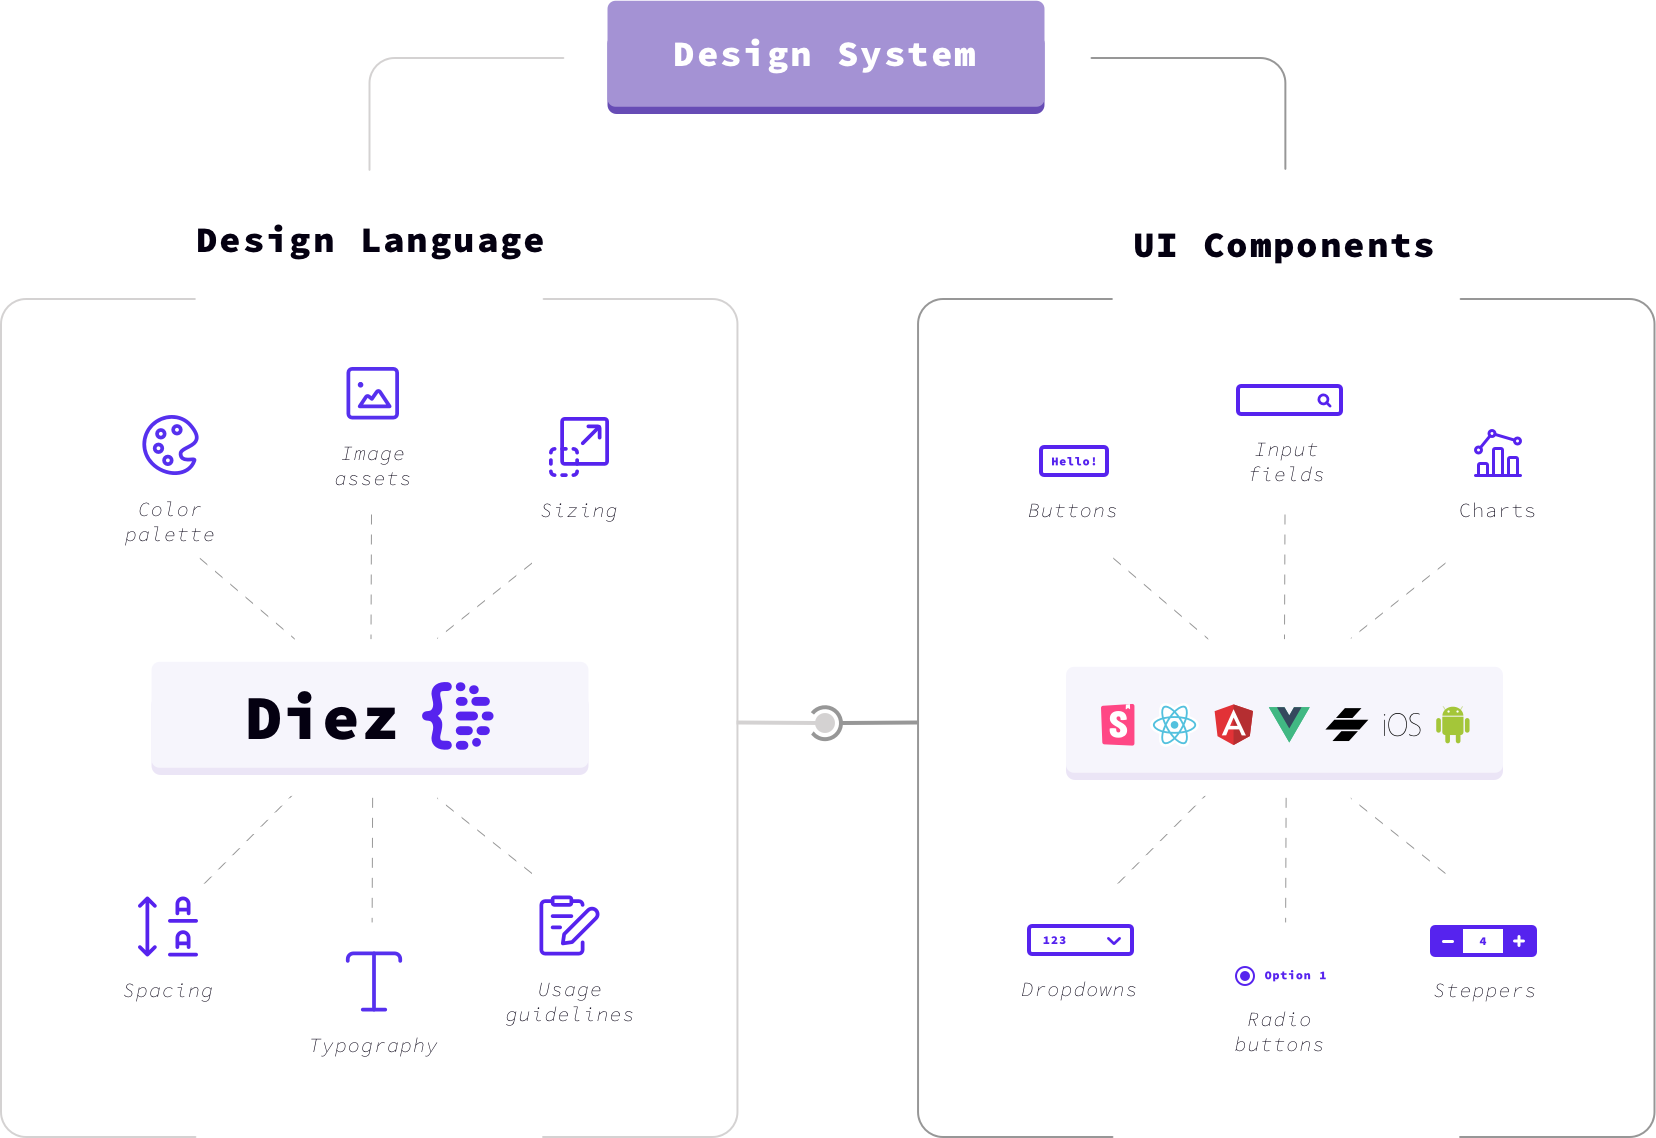
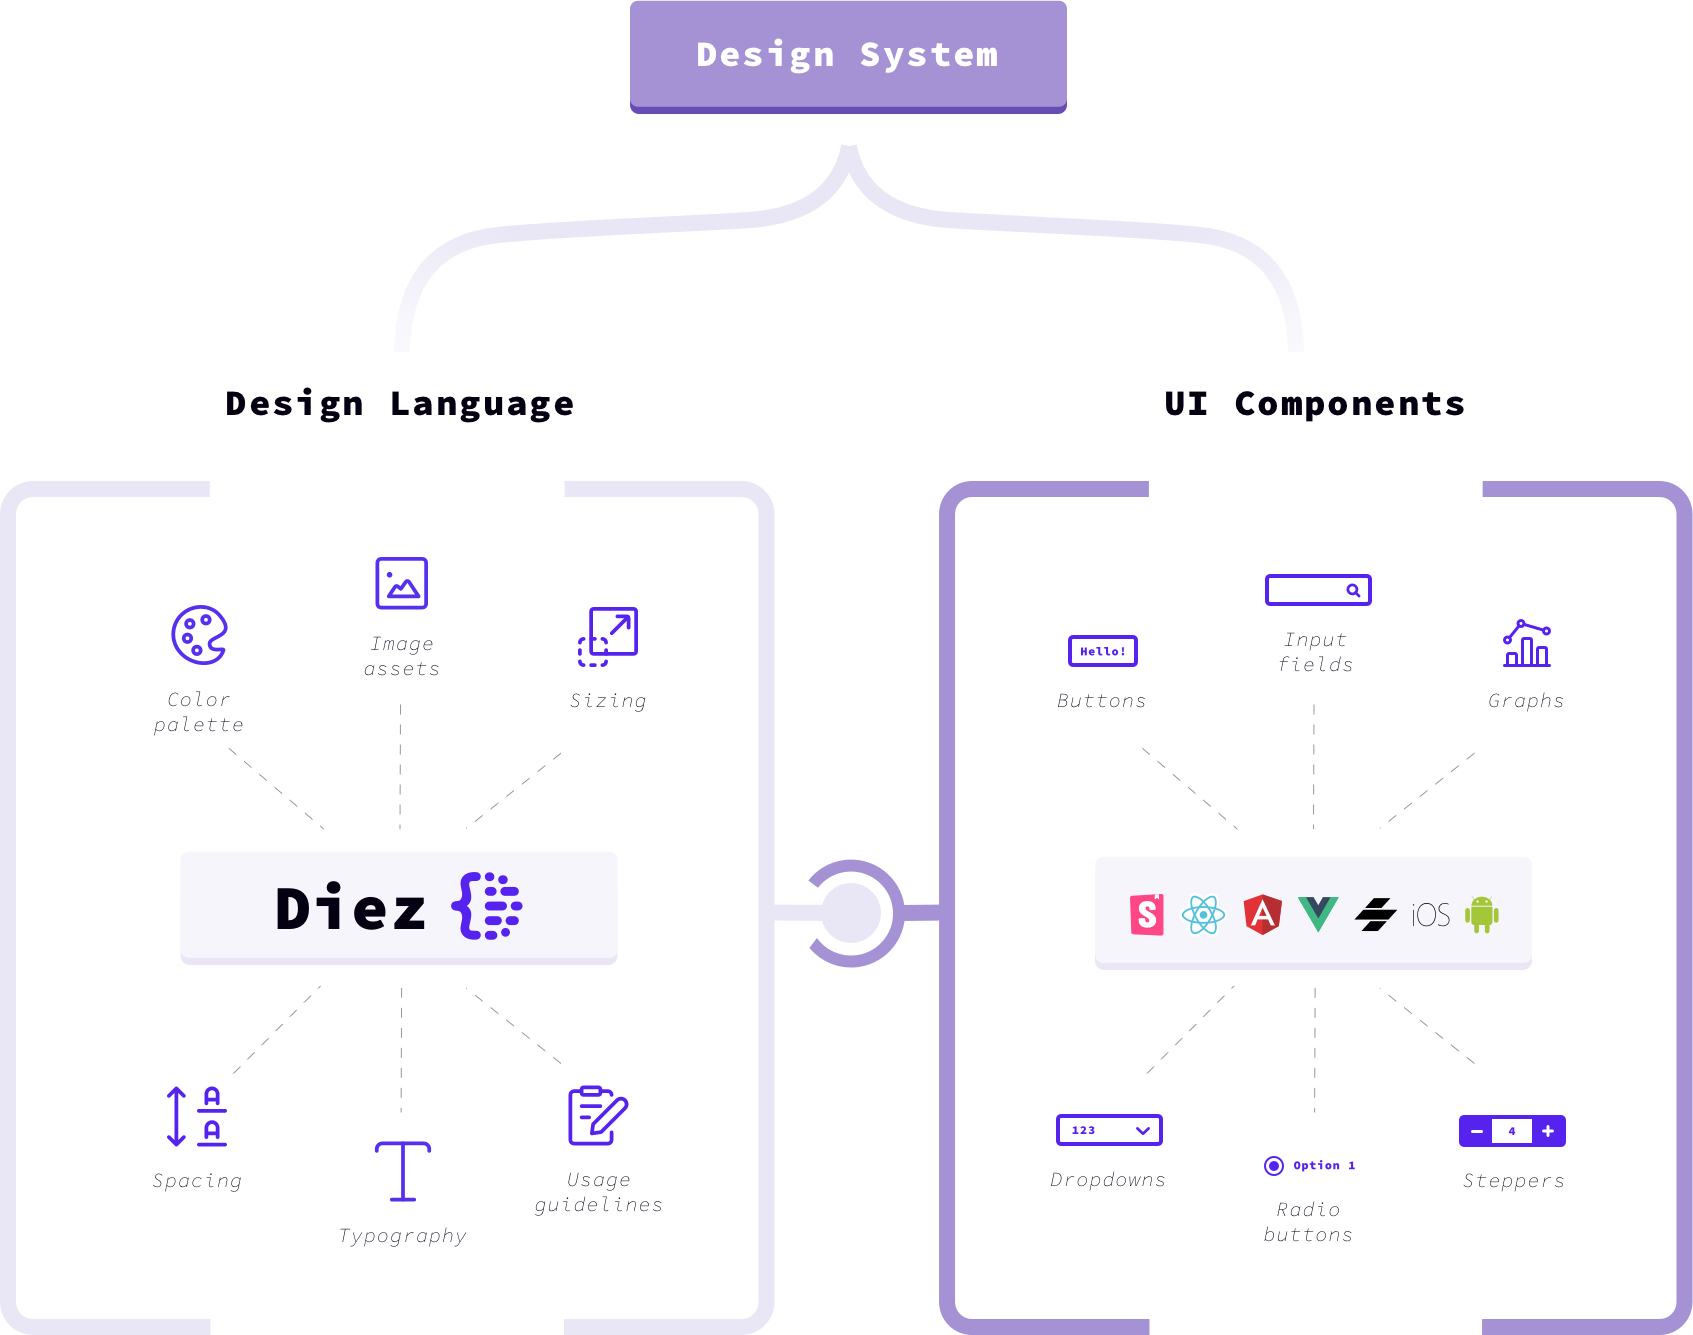
add new imagery

diff --git a/src/layouts/Home.vue b/src/layouts/Home.vue
@@ -31,7 +31,7 @@
           <p>From colors to typography, drop shadows to border radii, gradients to usage guidelines, logos to icons — if you can imagine it, you can express it in Diez.</p>
         </div>
         <div class="half">
-          <img src="https://via.placeholder.com/550x400" alt="diez compiler">
+          <img width="100%" src="@theme/assets/imgs/dlf.png" alt="diez compiler">
         </div>
       </section>
 
@@ -68,13 +68,10 @@
           <p class="center">Diez naturally integrates with any UI component solution in the world, including the ones your team already uses.</p>
         </div>
         <div class="section full-img">
-          <img width= "77%" src="@theme/assets/imgs/design-system.png" alt="design system">
+          <img width= "67%" src="@theme/assets/imgs/design-system.png" alt="design system">
         </div>
       
         <div class="section-split">
-          <div class="half mobile-reorder">
-            <img src="https://via.placeholder.com/550" alt="">
-          </div>
           <div class="half align-top">
             <h2>Scales like a dream</h2>
             <p>Import, reuse & reference — great for composing multiple brands with shared assets & styles.</p>
@@ -82,21 +79,24 @@
             <h3>Infinitely customizable</h3>
             <p>Diez is built around plugins — from the platforms it supports to the kinds of data you can express.  No matter the requirements of your design language or design system — whether you’re wrangling one brand or a hundred — you can customize Diez to fit your needs.</p>
           </div>
+          <div class="half">
+            <img width="90%" src="@theme/assets/imgs/complexity.png" alt="complexity">
+          </div>
         </div>
       </section>
 
       <section id="docsgen" class="section-split">
+        <div class="two-thirds">
+          <div class="video-holster card card-bordered mobile-reorder">
+            <video width="103%" style="margin-top:-6px;" autoplay loop muted playsinline preload="auto">
+              <source src="@theme/assets/vids/docs.mp4" type="video/mp4">
+            </video>
+          </div>
+        </div>
         <div class="one-third align-top">
           <h2>DocsGen</h2>
           <h3>(Enterprise Edition only)</h3>
           <p style="text-align: left;">From code comments and static analysis, Diez can automatically build customizable, ready-to-deploy documentation for your design system.</p>
-        </div>
-        <div class="two-thirds">
-          <div class="video-holster card card-bordered">
-            <video width="103%" style="margin-top:-6px;" autoplay loop muted playsinline preload="auto">
-                <source src="@theme/assets/vids/docs.mp4" type="video/mp4">
-            </video>
-          </div>
         </div>
       </section>
     </div>
@@ -448,6 +448,7 @@ export default {
 
   .full-img {
     text-align: center;
+    padding-top: 0;
   }
 
   .extracted-holster {

diff --git a/docs/index.md b/docs/index.md
@@ -5,10 +5,10 @@ layout: Home
 ::: slot extracted-code-example
 ```ts
 const mySketchColors = {
-  purple: Color.hex('#5623EE'),
+  violet: Color.hex('#5623EE'),
   mauve: Color.hex('#A494D3'),
-  white: Color.hex('#fff'),
-  gray: Color.hex('#79738F')
+  gray500: Color.hex('#8E86AA'),
+  gray600: Color.hex('#79738F')
 }
 ```
 :::
